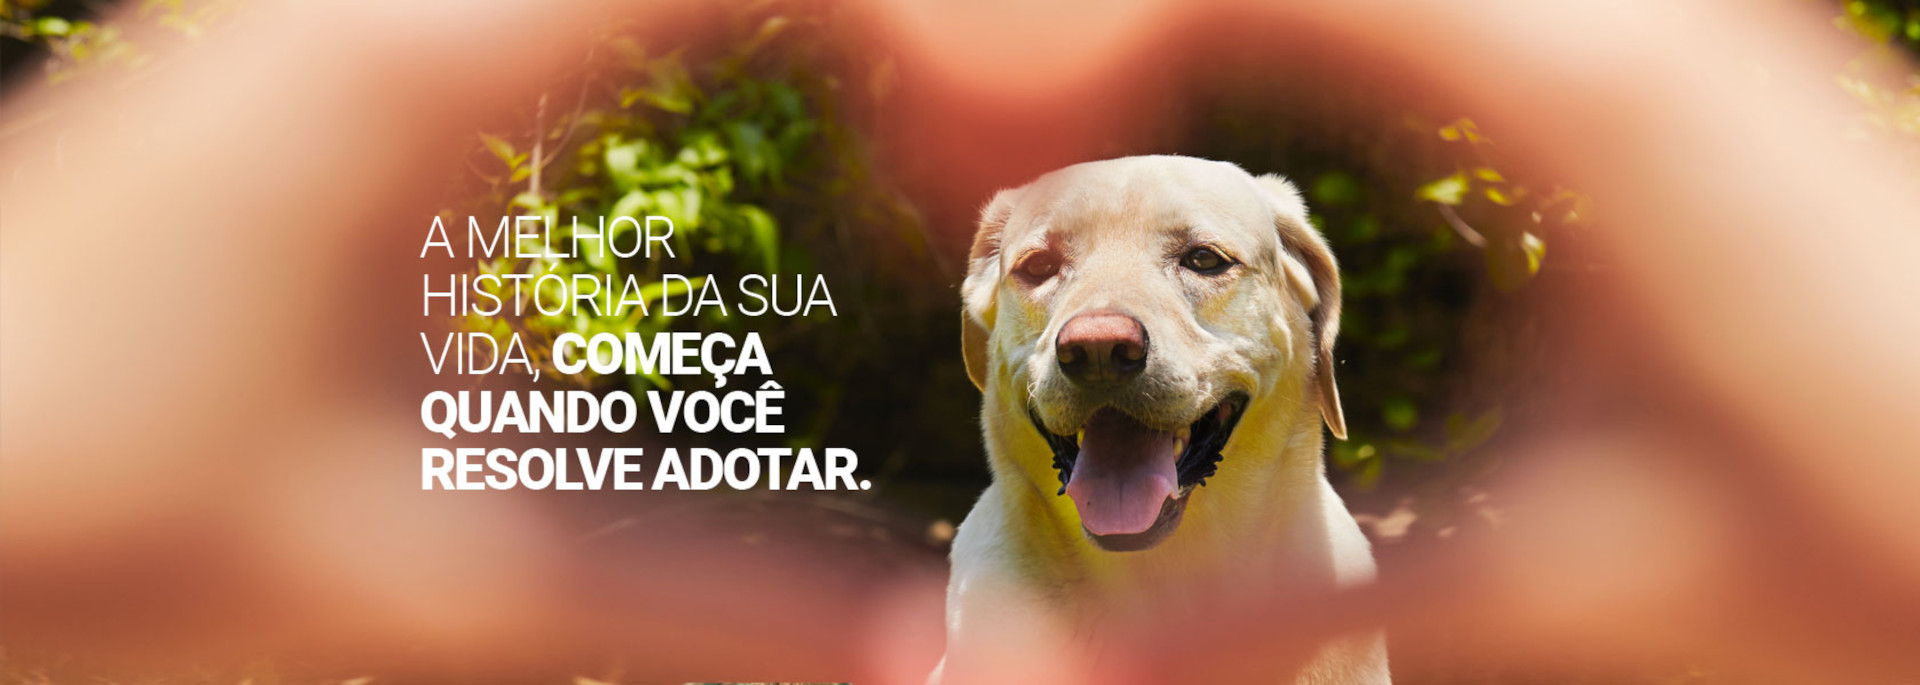
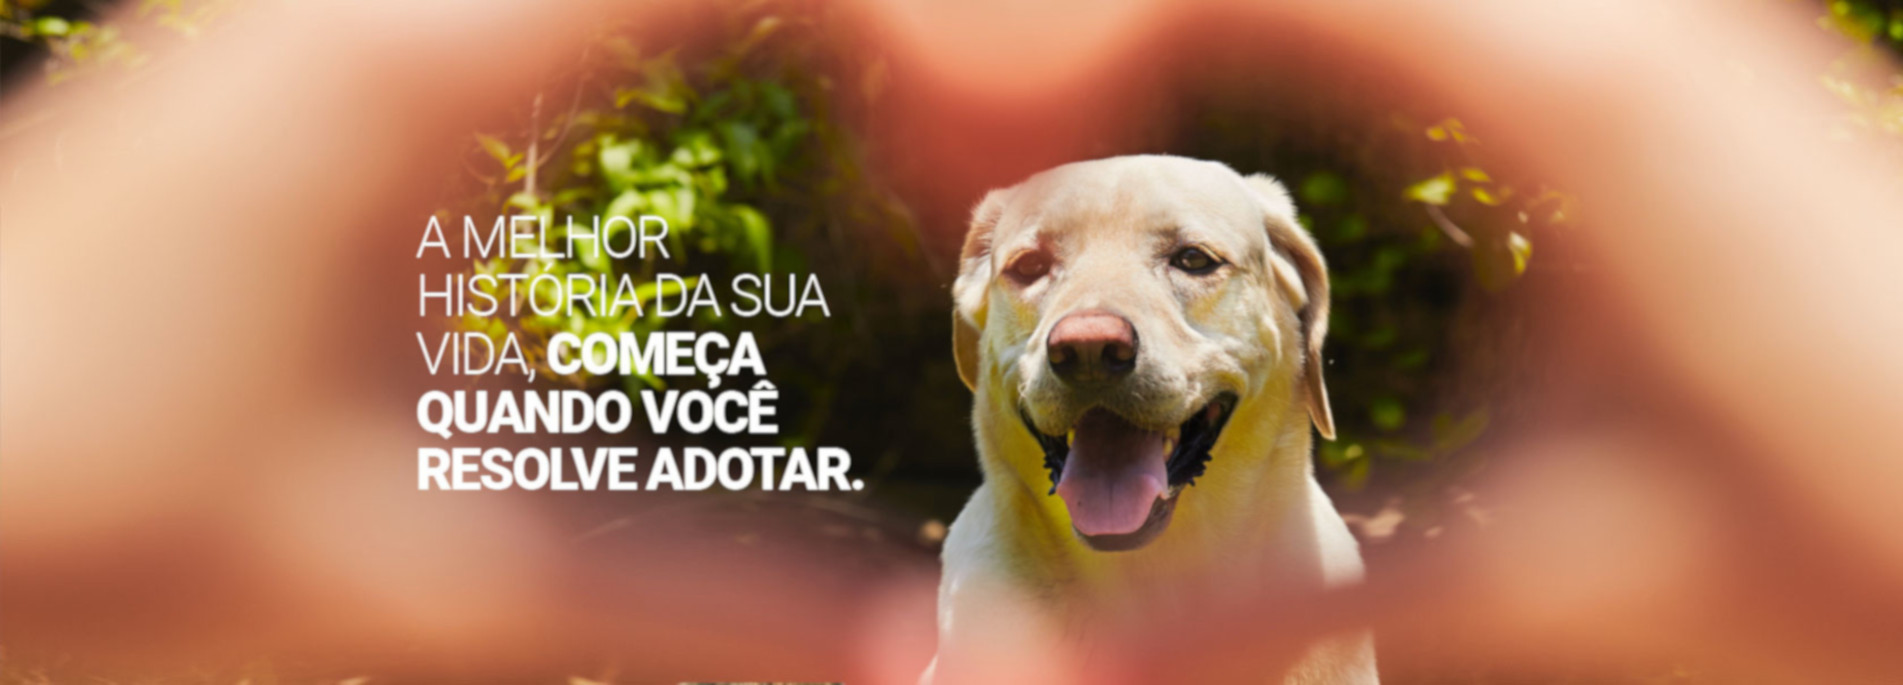
css

Changed region(s): [[0.217, 0.3066, 0.4651, 0.7358]]

diff --git a/index.html b/index.html
@@ -40,7 +40,7 @@
     
     <main>
         <article>
-            <picture>
+            <picture class="banner">
                 <source media="(max-width: 500px)" srcset="imagens/banner1-pq.jpg">
                 <img src="imagens/banner1.jpg" alt="Baner adoção">
             </picture>
@@ -49,7 +49,15 @@
                 <source media="(max-width: 500px)" srcset="imagens/cpa-ajuda-pq.jpg" alt="ajuda">
                 <img src="imagens/cpa-ajuda.jpg" alt="ajuda">
             </picture>
-            <p>Lorem ipsum dolor sit amet consectetur adipisicing elit. Sed numquam excepturi deleniti eos quidem qui at quia minus perferendis, iste aspernatur eveniet corporis hic tempora velit! Perspiciatis quaerat hic asperiores.</p>
+           <section class="botoes">
+            
+                <img src="imagens/pegada.png" alt="pegada">
+                <p>Através da colaboração de nossos amigos e voluntários,<br> semanalmente organizamos  um passeio com nossos <br> amiguinhos de quatro patas.
+                </p>
+        
+            <a href="#"></a>
+            <a href="#"></a>
+           </section>
           
 
         </article>

diff --git a/estilos/mediaquery.css b/estilos/mediaquery.css
@@ -12,6 +12,7 @@
 @media screen and (min-width: 768px){
 
     header{
+        width: 100vw;
         justify-content: center;
         margin-top: 50px;
         display: flex;
@@ -41,10 +42,37 @@
         display: inline-block;
     }
 
+    picture.banner{
+        display: flex;
+        
+    }
+
+
     picture.ajuda{
         display: flex;
         justify-content: center;
         background-color: #EB0028;
+    }
+
+    section.botoes{
+        display: flex;
+        flex-direction: column;
+        flex-wrap: wrap;
+        align-items: center;
+    }
+
+    section.botoes > img{
+        display: flex;
+        border-radius: 50%;
+        justify-content: flex-start;
+        align-items: flex-start ;
+        flex-direction: row;
+    }
+
+    section.botoes > p{
+        display: flex;
+        font-size: 14px;
+        text-align: justify;
     }
 
 

diff --git a/estilos/style.css b/estilos/style.css
@@ -73,9 +73,16 @@ menu > ul > li a:hover{
     background-color: #c70021;
 }
 
-picture.ajuda{
-    
+picture.banner{
+    display: flex;
 }
+
+picture.ajuda{
+    display: flex;
+    justify-content: center;
+    background-color: #EB0028;
+}
+
 
 article{
     font-family: Arial, Helvetica, sans-serif;
